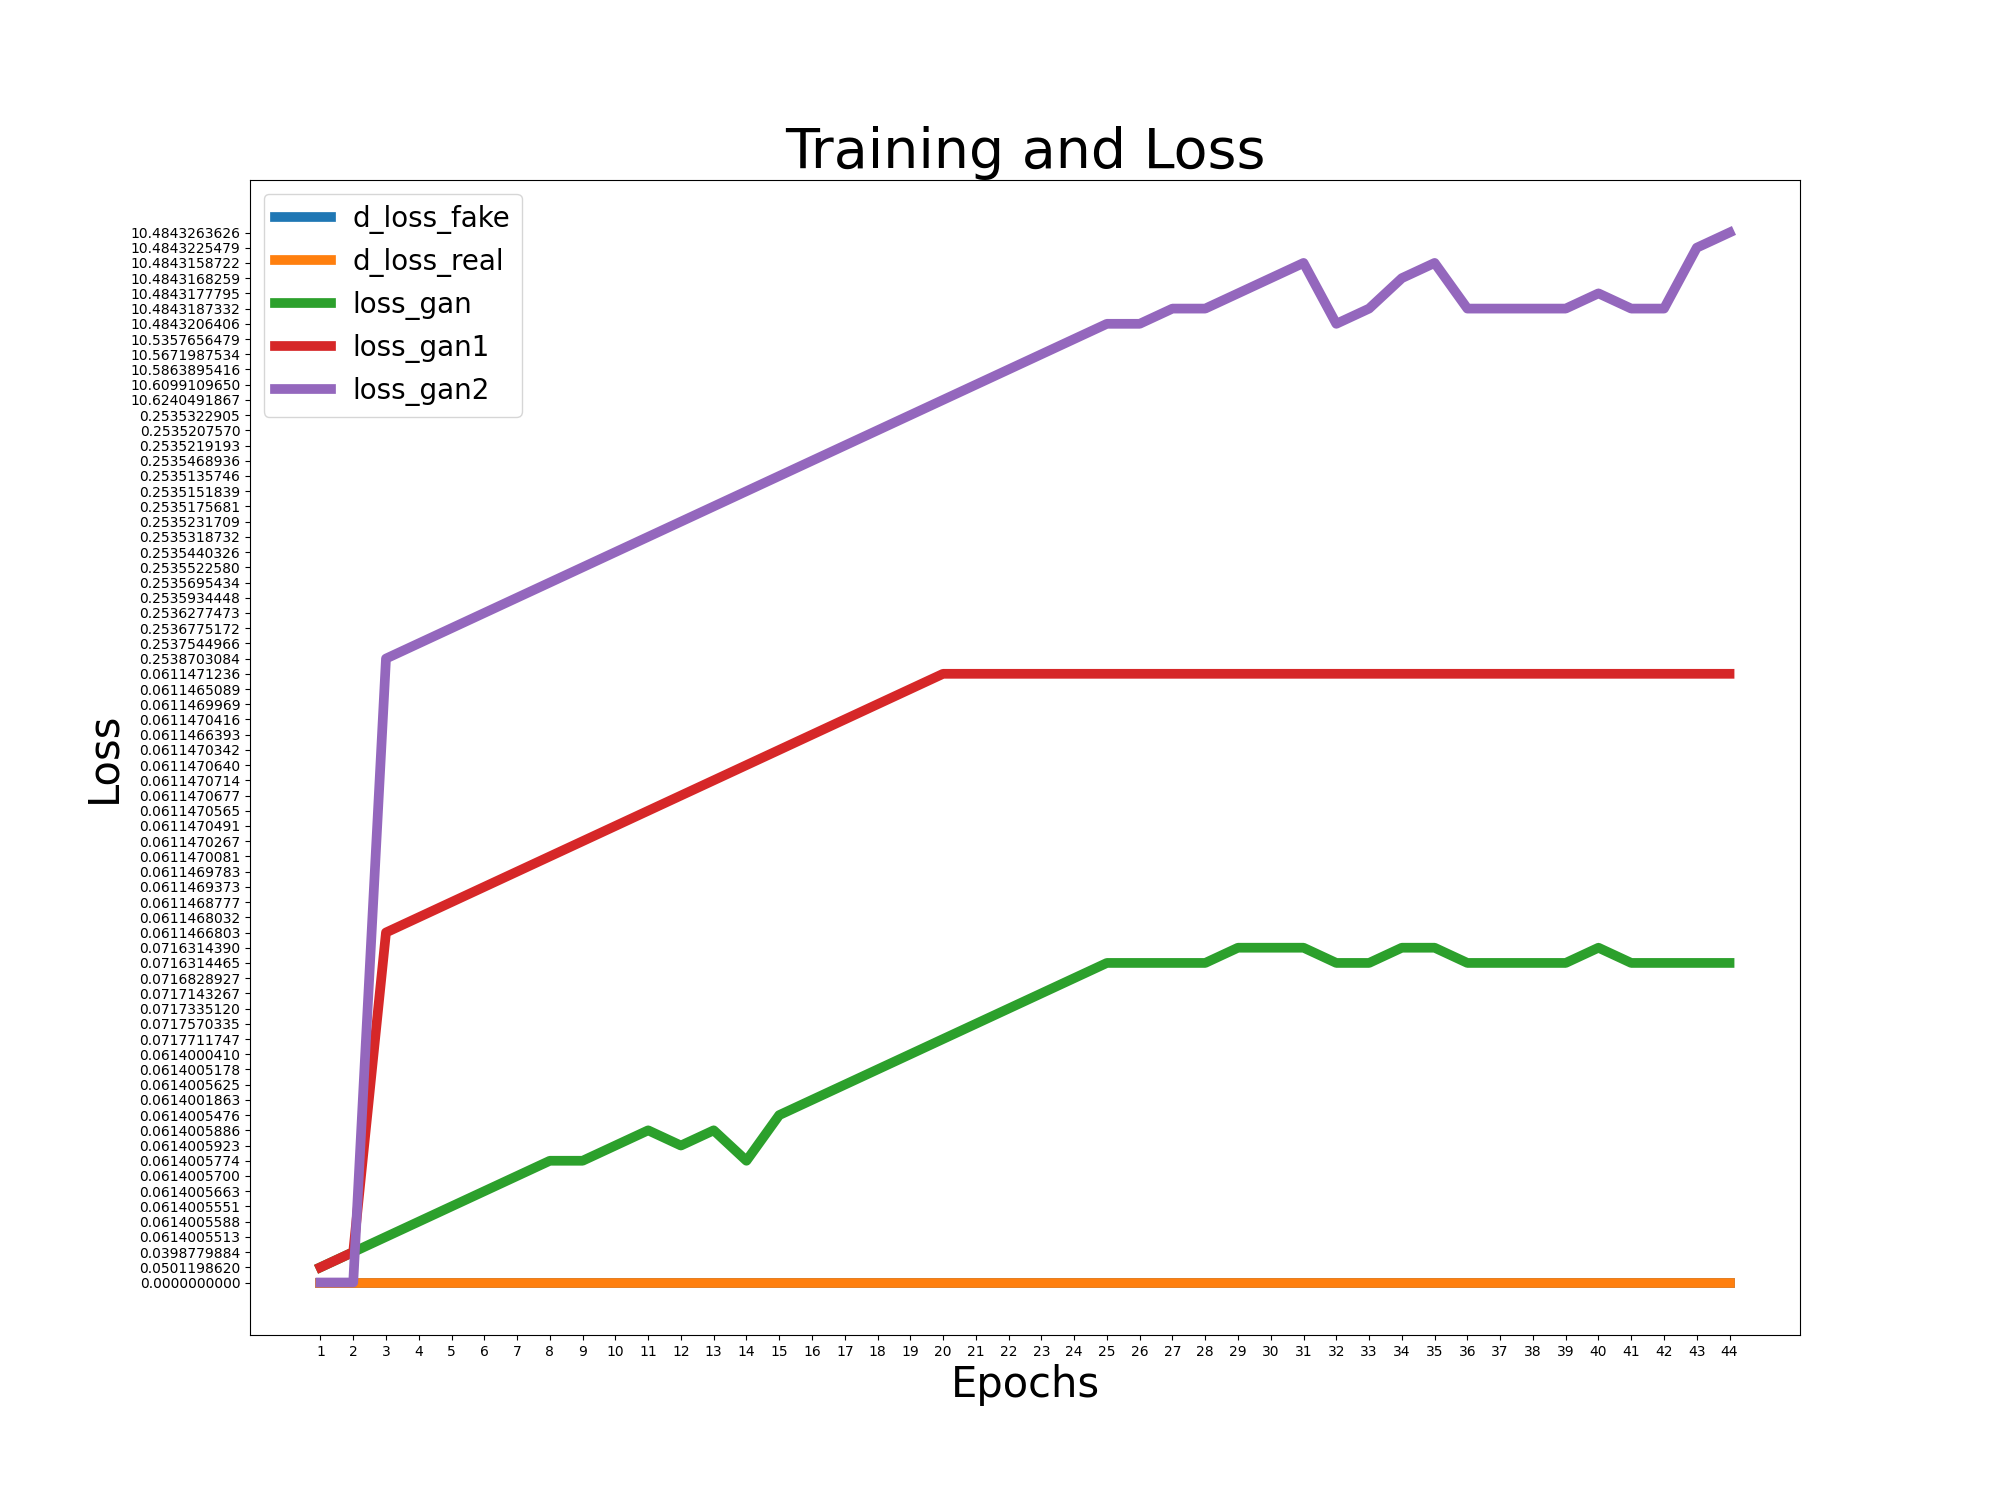
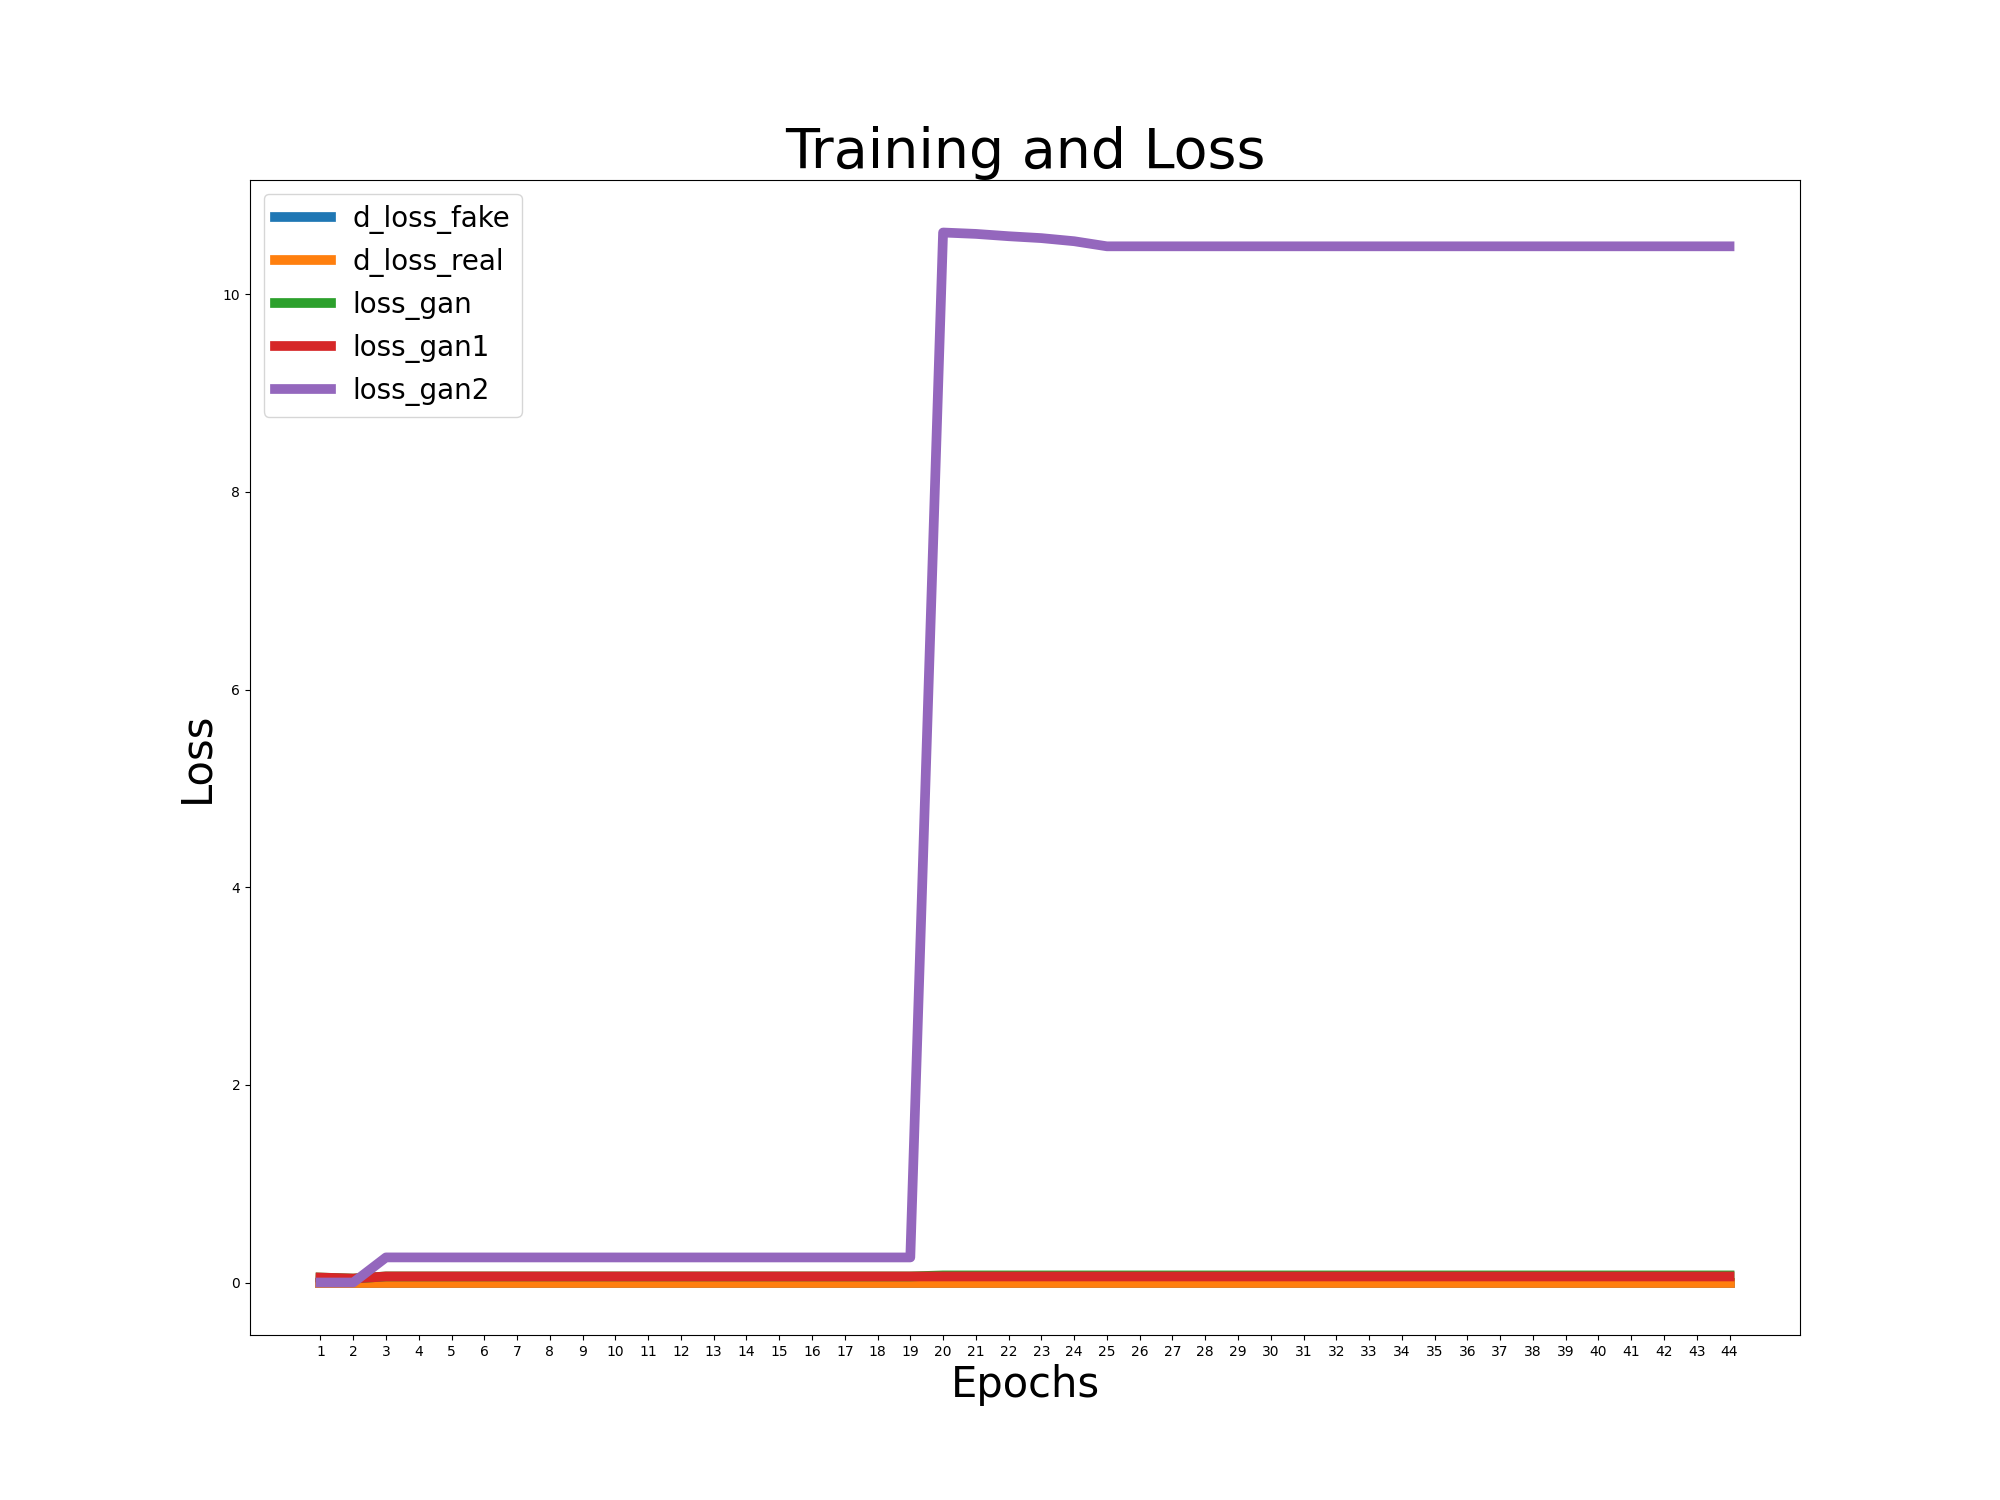
fixed axes : str to float

diff --git a/results/data_viz.py b/results/data_viz.py
@@ -1,5 +1,6 @@
 import pandas as pd
 import matplotlib.pyplot as plt
+import numpy as np
 
 def get_data():
     data = pd.read_csv('results/loss.txt', names=['Epochs', 'd_loss_fake', 'd_loss_real', 'loss_gan', 'loss_gan1', 'loss_gan2'])
@@ -13,11 +14,17 @@ def limit_decimals(x):
 def plot_all(data):
     epochs = data.loc[:, 'Epochs']
     plt.figure(figsize=(20,15))
-    plt.plot(epochs, data.loc[:, 'd_loss_fake'].map(lambda x: limit_decimals(x)), label='d_loss_fake', linewidth=7)
-    plt.plot(epochs, data.loc[:, 'd_loss_real'].map(lambda x: limit_decimals(x)), label='d_loss_real', linewidth=7)
-    plt.plot(epochs, data.loc[:, 'loss_gan'].map(lambda x: limit_decimals(x)), label='loss_gan', linewidth=7)
-    plt.plot(epochs, data.loc[:, 'loss_gan1'].map(lambda x: limit_decimals(x)), label='loss_gan1', linewidth=7)
-    plt.plot(epochs, data.loc[:, 'loss_gan2'].map(lambda x: limit_decimals(x)), label='loss_gan2', linewidth=7)
+    # plt.plot(epochs, data.loc[:, 'd_loss_fake'].map(lambda x: limit_decimals(x)), label='d_loss_fake', linewidth=7)
+    # plt.plot(epochs, data.loc[:, 'd_loss_real'].map(lambda x: limit_decimals(x)), label='d_loss_real', linewidth=7)
+    # plt.plot(epochs, data.loc[:, 'loss_gan'].map(lambda x: limit_decimals(x)), label='loss_gan', linewidth=7)
+    # plt.plot(epochs, data.loc[:, 'loss_gan1'].map(lambda x: limit_decimals(x)), label='loss_gan1', linewidth=7)
+    # plt.plot(epochs, data.loc[:, 'loss_gan2'].map(lambda x: limit_decimals(x)), label='loss_gan2', linewidth=7)
+
+    plt.plot(epochs, np.asarray(data.loc[:, 'd_loss_fake'], float), label='d_loss_fake', linewidth=7)
+    plt.plot(epochs, np.asarray(data.loc[:, 'd_loss_real'], float), label='d_loss_real', linewidth=7)
+    plt.plot(epochs, np.asarray(data.loc[:, 'loss_gan'], float), label='loss_gan', linewidth=7)
+    plt.plot(epochs, np.asarray(data.loc[:, 'loss_gan1'], float), label='loss_gan1', linewidth=7)
+    plt.plot(epochs, np.asarray(data.loc[:, 'loss_gan2'], float), label='loss_gan2', linewidth=7)
     plt.title('Training and Loss', size=40)
     plt.xlabel('Epochs', size=30)
     plt.ylabel('Loss', size=30)
@@ -27,7 +34,7 @@ def plot_all(data):
 def plot_d_fake(data):
     epochs = data.loc[:, 'Epochs']
     plt.figure(figsize=(20,15))
-    plt.plot(epochs, data.loc[:, 'd_loss_fake'], label='d_loss_fake',linewidth=10)
+    plt.plot(epochs, np.asarray(data.loc[:, 'd_loss_fake'], float), label='d_loss_fake',linewidth=10)
     plt.title('Discriminator Loss on Fake Images', size=40)
     plt.xlabel('Epochs', size=30)
     plt.ylabel('Loss', size=30)
@@ -37,7 +44,7 @@ def plot_d_fake(data):
 def plot_d_real(data):
     epochs = data.loc[:, 'Epochs']
     plt.figure(figsize=(20,15))
-    plt.plot(epochs, data.loc[:, 'd_loss_real'], label='d_loss_real',linewidth=10)
+    plt.plot(epochs, np.asarray(data.loc[:, 'd_loss_real'], float), label='d_loss_real',linewidth=10)
     plt.title('Discriminator Loss on Real Images', size=40)
     plt.xlabel('Epochs', size=30)
     plt.ylabel('Loss', size=30)
@@ -50,9 +57,12 @@ def plot_gen(data):
     # plt.plot(epochs, data.loc[:, 'loss_gan'], label='loss_gan')
     # plt.plot(epochs, data.loc[:, 'loss_gan1'], label='loss_gan1')
     # plt.plot(epochs, data.loc[:, 'loss_gan2'], label='loss_gan2')
-    plt.plot(epochs, data.loc[:, 'loss_gan'].map(lambda x: limit_decimals(x)), label='loss_gan',linewidth=7)
-    plt.plot(epochs, data.loc[:, 'loss_gan1'].map(lambda x: limit_decimals(x)), label='loss_gan1',linewidth=7)
-    plt.plot(epochs, data.loc[:, 'loss_gan2'].map(lambda x: limit_decimals(x)), label='loss_gan2',linewidth=7)
+    # plt.plot(epochs, data.loc[:, 'loss_gan'].map(lambda x: limit_decimals(x)), label='loss_gan',linewidth=7)
+    # plt.plot(epochs, data.loc[:, 'loss_gan1'].map(lambda x: limit_decimals(x)), label='loss_gan1',linewidth=7)
+    # plt.plot(epochs, data.loc[:, 'loss_gan2'].map(lambda x: limit_decimals(x)), label='loss_gan2',linewidth=7)
+    plt.plot(epochs, np.asarray(data.loc[:, 'loss_gan'], float), label='loss_gan',linewidth=7)
+    plt.plot(epochs, np.asarray(data.loc[:, 'loss_gan1'], float), label='loss_gan1',linewidth=7)
+    plt.plot(epochs, np.asarray(data.loc[:, 'loss_gan2'], float), label='loss_gan2',linewidth=7)
     plt.title('Generator Loss', size=40)
     plt.xlabel('Epochs', size=30)
     plt.ylabel('Loss', size=30)
